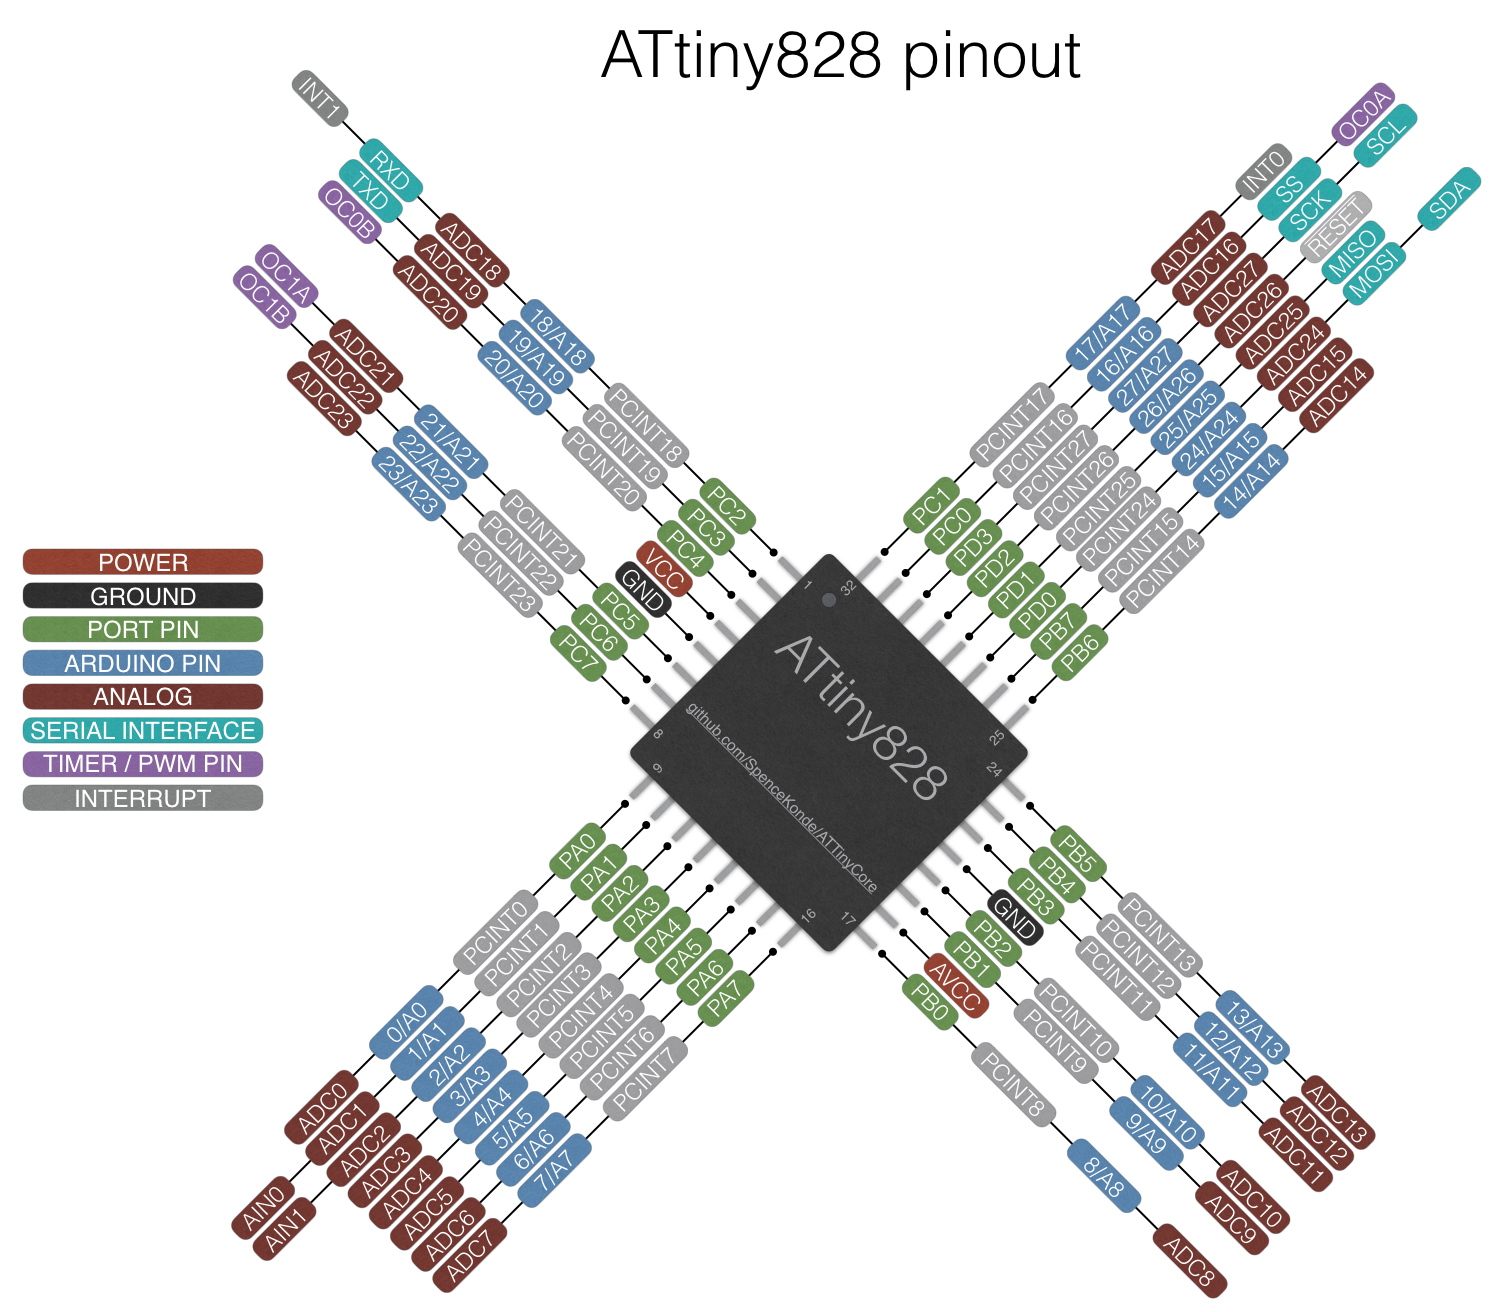
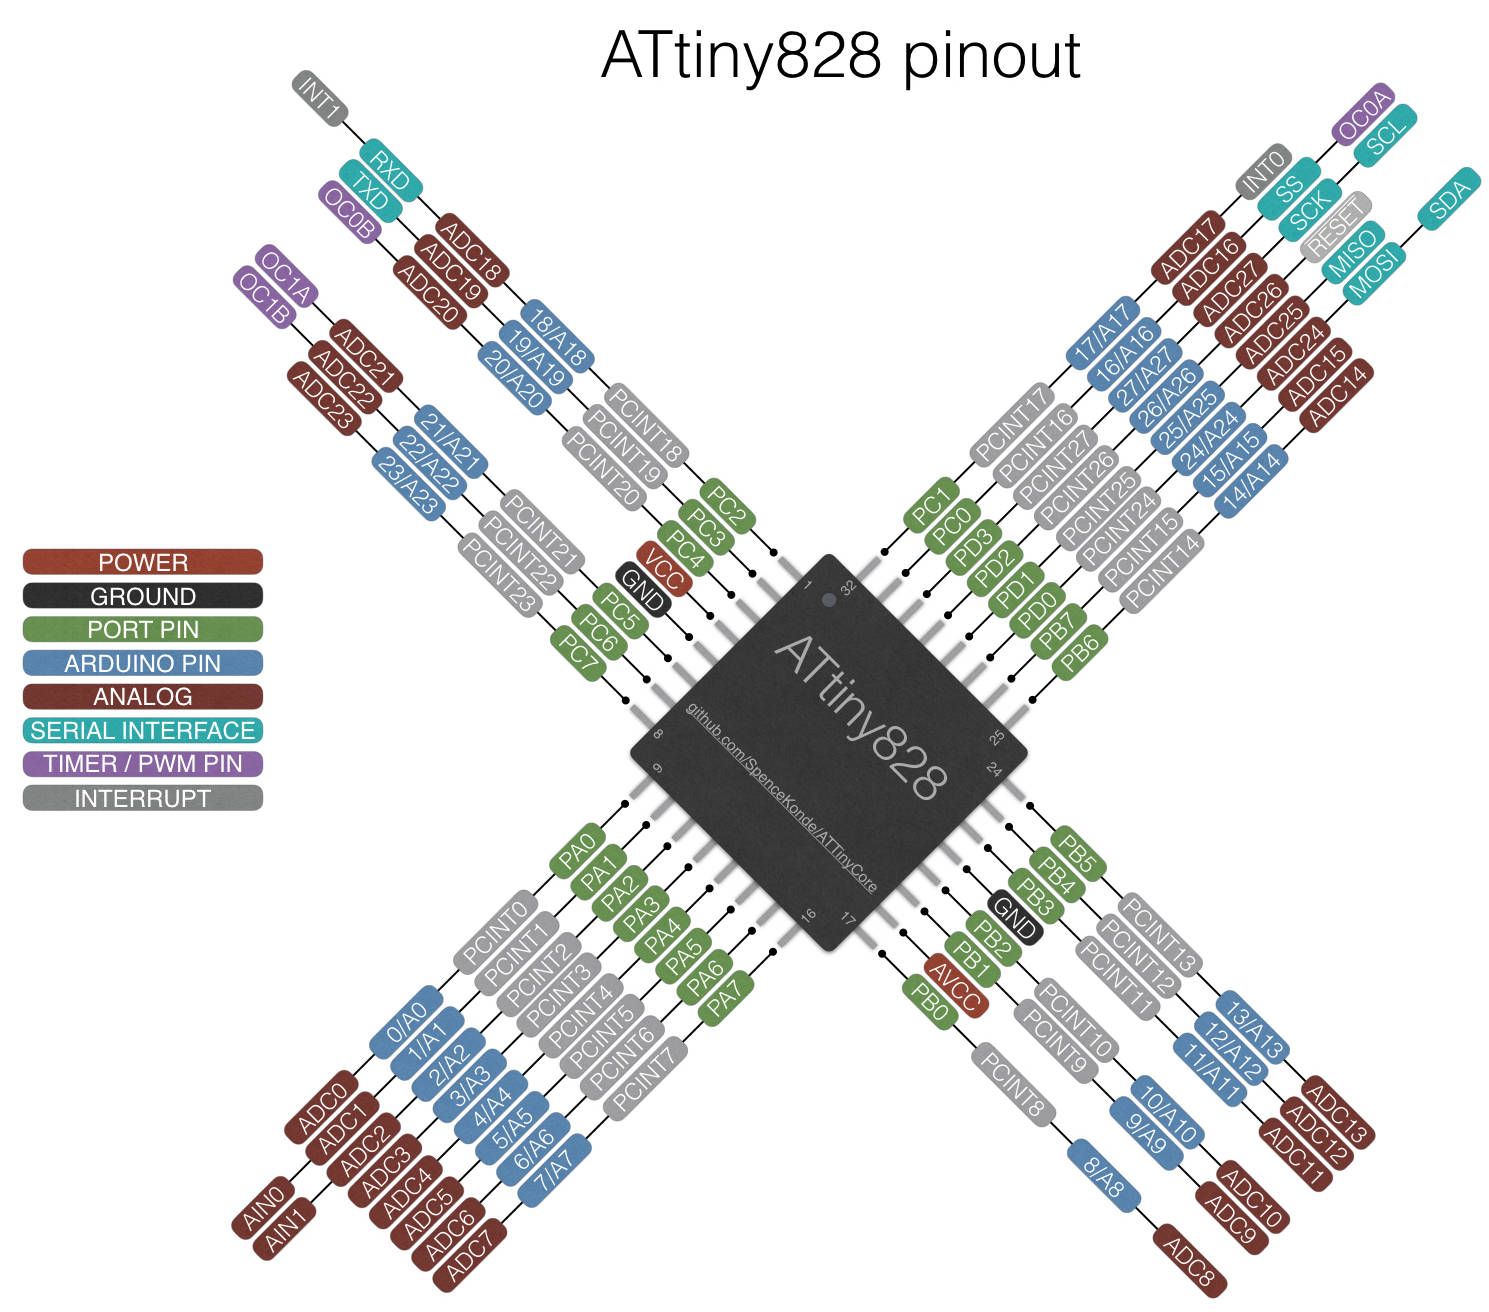
Re-export x7, 828 pinout for size
The x7 image was previously a 7MB png, and the 828 was just over 1MB. (And they didn't compress). That is unreasonably large for a file that will be downloaded by all users of the core. Lowered quality of 828 as far as I could without starting to see artifacts. Cropped white area from x7 pinout, and exported as jpg with the same strategy. The full res images were retained, and I'll figure out some sane way to distribute in the future, that isn't downloaded automatically, especially when board manager installs are so deeply hidden that probably nobody will view the docs there...

diff --git a/avr/extras/ATtiny_x7.md b/avr/extras/ATtiny_x7.md
@@ -1,5 +1,5 @@
 ### ATtiny 87/167
-![x7 pin mapping](Pinout_x7.png "Arduino Pin Mapping for ATtiny x7-family")
+![x7 pin mapping](Pinout_x7.jpg "Arduino Pin Mapping for ATtiny x7-family")
 
  Specifications |  .
 ------------ | -------------
